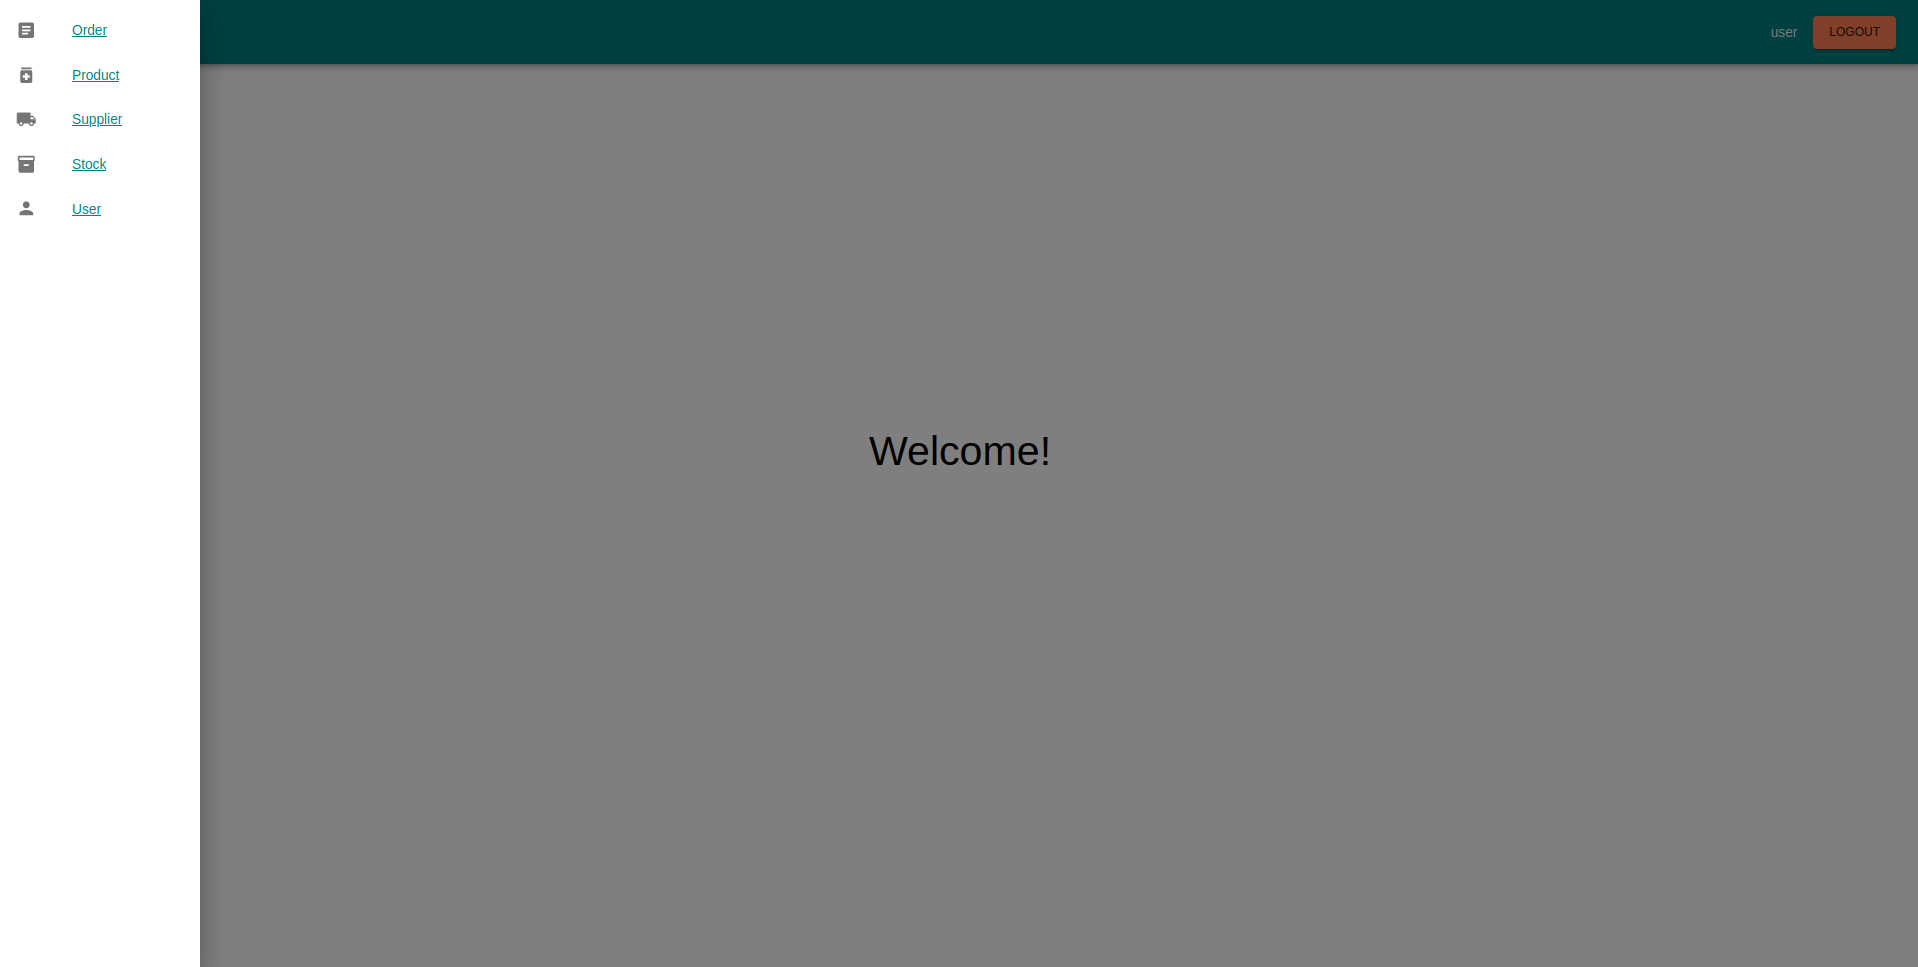
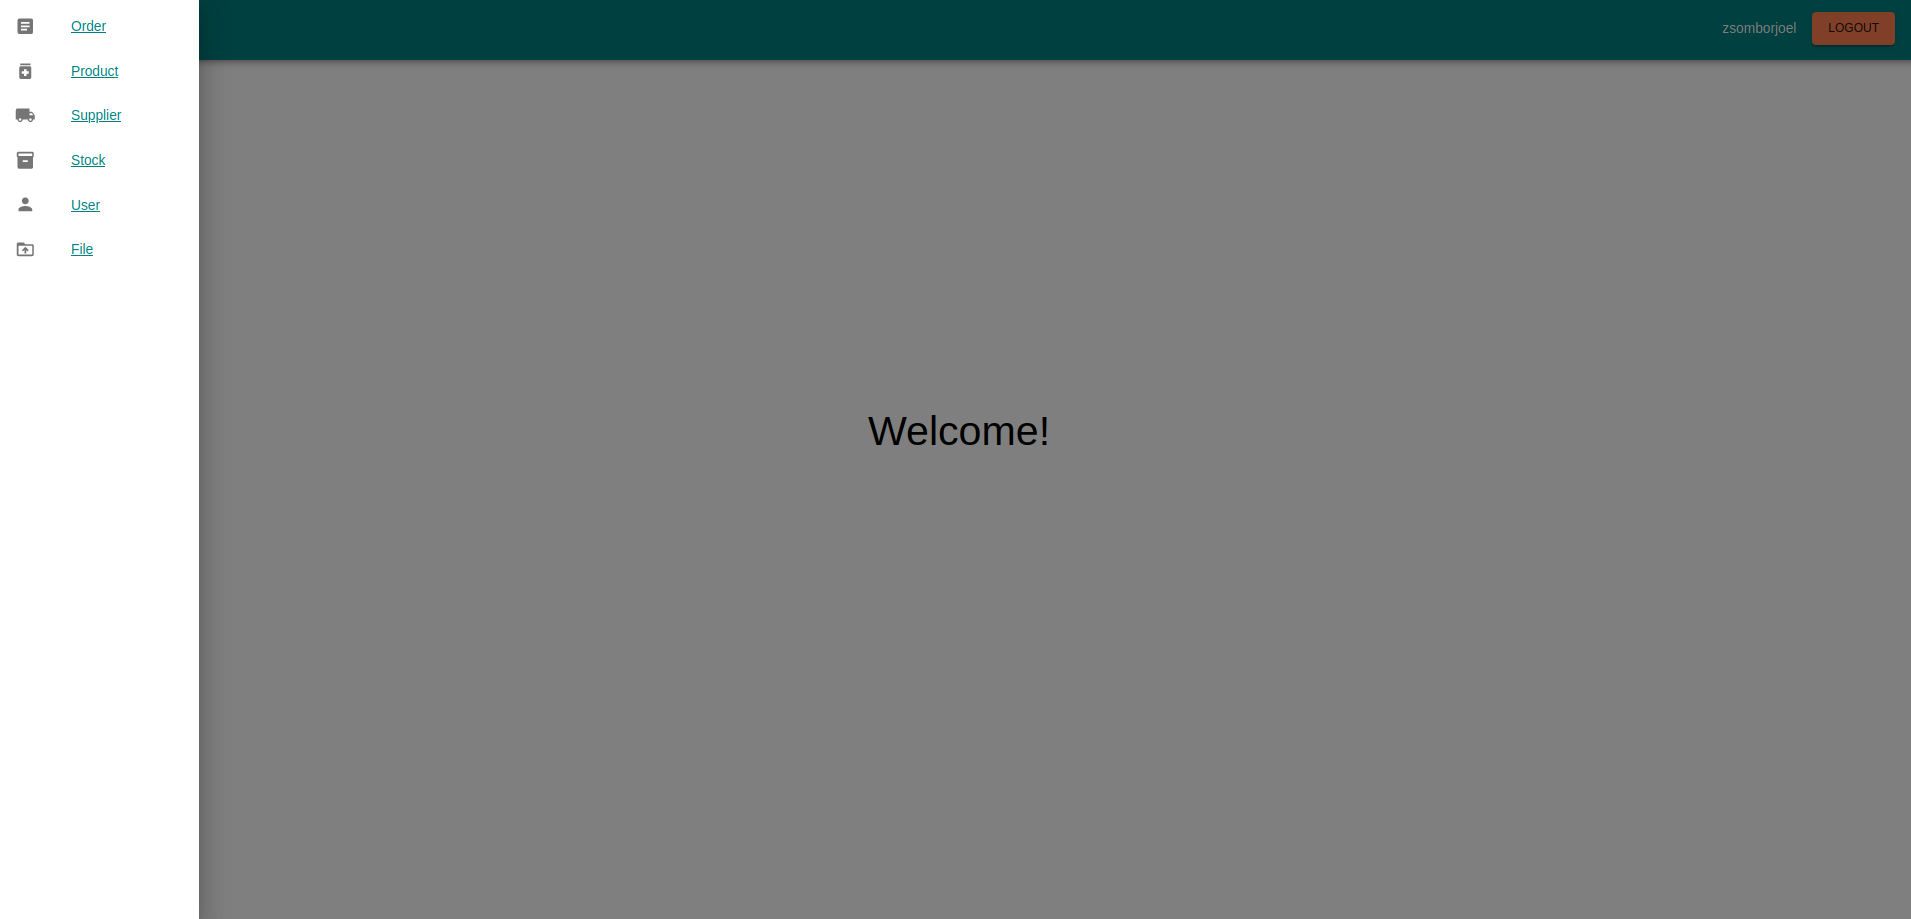
File browser

diff --git a/frontend/src/pages/file/FileForm.tsx b/frontend/src/pages/file/FileForm.tsx
@@ -4,7 +4,7 @@ import { Box, Grid, TextField, Button, Input } from '@mui/material';
 import FileService from '../../services/FileService';
 import SnackbarContext from '../../contexts/snackbar/SnackbarContext';
 import { ROOT_FOLDER } from '../../configs/constants';
-import { FileContext } from '../../context/FileContextProvider';
+import { FileContext } from '../../contexts/file/FileContext';
 
 export type FileFormProps = {};
 

diff --git a/frontend/src/pages/file/TreeDirectory.tsx b/frontend/src/pages/file/TreeDirectory.tsx
@@ -10,7 +10,7 @@ import { ROOT_FOLDER } from '../../configs/constants';
 import { File } from '../../services/model/File';
 import FileDownloadDialog from './FileDownloadDialog';
 import SnackbarContext from '../../contexts/snackbar/SnackbarContext';
-import { FileContext } from '../../context/FileContextProvider';
+import { FileContext } from '../../contexts/file/FileContext';
 
 export type TreeDirectoryProps = {};
 

diff --git a/frontend/src/pages/file/FilePage.tsx b/frontend/src/pages/file/FilePage.tsx
@@ -5,7 +5,7 @@ import { Box } from '@mui/system';
 import { ReflexContainer, ReflexElement, ReflexSplitter } from 'react-reflex';
 import TreeDirectory from './TreeDirectory';
 import FileForm from './FileForm';
-import { FileContextProvider } from '../../context/FileContextProvider';
+import { FileContextProvider } from '../../contexts/file/FileContext';
 
 export type FilePageProps = {};
 
